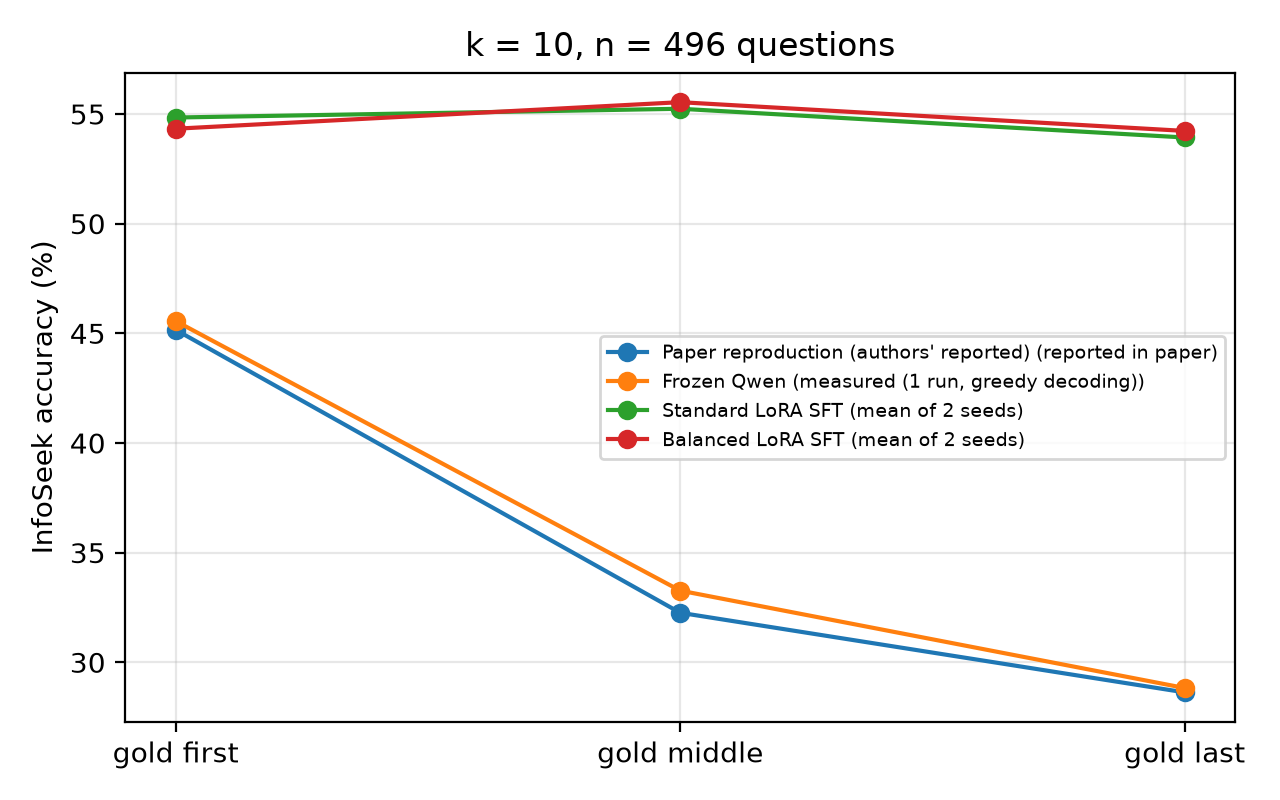
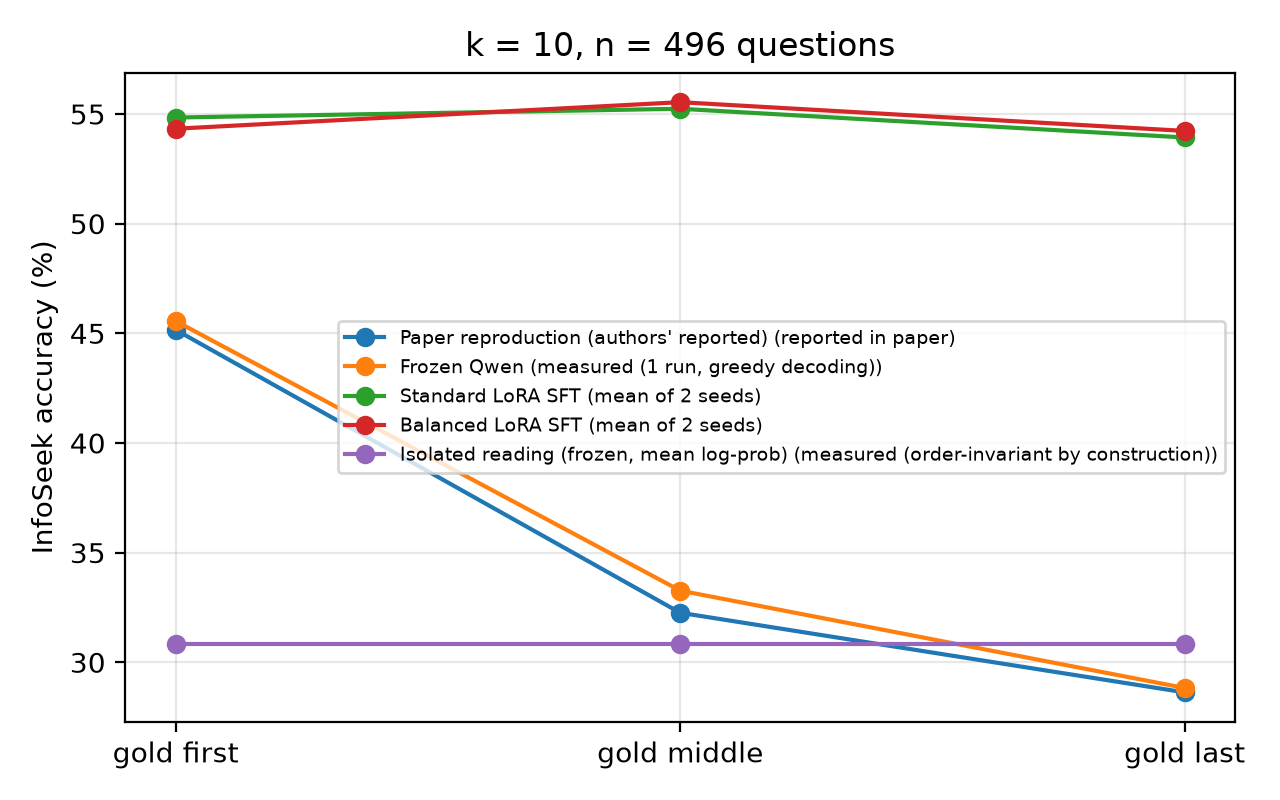
Add isolated-reading baseline to the comparison

Changed region(s): [[0.25, 0.375, 0.9688, 0.5938], [0.125, 0.7812, 0.9375, 0.8125]]

diff --git a/results/COMPARISON.md b/results/COMPARISON.md
@@ -1,4 +1,4 @@
-# Comparison (generated 2026-11-10 16:03)
+# Comparison (generated 2026-11-10 17:52)
 
 InfoSeek, authors' P17 protocol, k = 10, n = 496. Accuracy in %. Gap = gold first - gold last.
 
@@ -8,6 +8,7 @@ InfoSeek, authors' P17 protocol, k = 10, n = 496. Accuracy in %. Gap = gold firs
 | Frozen Qwen | 45.56 | 33.27 | 28.83 | 16.73 | measured (1 run, greedy decoding) |
 | Standard LoRA SFT | 54.84 | 55.24 | 53.93 | 0.91 | mean of 2 seeds |
 | Balanced LoRA SFT | 54.33 | 55.54 | 54.23 | 0.10 | mean of 2 seeds |
+| Isolated reading (frozen, mean log-prob) | 30.85 | 30.85 | 30.85 | 0.00 | measured (order-invariant by construction) |
 
 ## Paired bootstrap (B = 10,000, seed 42), percentage points
 
@@ -16,6 +17,7 @@ InfoSeek, authors' P17 protocol, k = 10, n = 496. Accuracy in %. Gap = gold firs
 | Frozen Qwen: gap (first - last) | +16.73 | [+12.90, +20.77] | yes |
 | Standard LoRA SFT: gap (first - last) | +0.91 | [-1.21, +3.02] | no |
 | Balanced LoRA SFT: gap (first - last) | +0.10 | [-1.81, +2.02] | no |
+| Isolated reading (frozen, mean log-prob): gap (first - last) | +0.00 | [+0.00, +0.00] | no |
 | Standard LoRA SFT vs Frozen: change in gap | -15.83 | [-20.16, -11.79] | yes |
 | Standard LoRA SFT vs Frozen: accuracy at gold first | +9.27 | [+4.84, +13.61] | yes |
 | Standard LoRA SFT vs Frozen: accuracy at gold middle | +21.98 | [+17.74, +26.21] | yes |
@@ -24,6 +26,16 @@ InfoSeek, authors' P17 protocol, k = 10, n = 496. Accuracy in %. Gap = gold firs
 | Balanced LoRA SFT vs Frozen: accuracy at gold first | +8.77 | [+4.33, +13.21] | yes |
 | Balanced LoRA SFT vs Frozen: accuracy at gold middle | +22.28 | [+18.15, +26.51] | yes |
 | Balanced LoRA SFT vs Frozen: accuracy at gold last | +25.40 | [+21.07, +29.74] | yes |
+| Isolated reading (frozen, mean log-prob) vs Frozen: change in gap | -16.73 | [-20.77, -12.90] | yes |
+| Isolated reading (frozen, mean log-prob) vs Frozen: accuracy at gold first | -14.72 | [-18.75, -10.89] | yes |
+| Isolated reading (frozen, mean log-prob) vs Frozen: accuracy at gold middle | -2.42 | [-6.05, +1.21] | no |
+| Isolated reading (frozen, mean log-prob) vs Frozen: accuracy at gold last | +2.02 | [-1.61, +5.65] | no |
+| Standard LoRA SFT vs Isolated reading (frozen, mean log-prob): accuracy at gold first | +23.99 | [+19.56, +28.43] | yes |
+| Standard LoRA SFT vs Isolated reading (frozen, mean log-prob): accuracy at gold middle | +24.40 | [+19.86, +28.93] | yes |
+| Standard LoRA SFT vs Isolated reading (frozen, mean log-prob): accuracy at gold last | +23.08 | [+18.65, +27.62] | yes |
+| Balanced LoRA SFT vs Isolated reading (frozen, mean log-prob): accuracy at gold first | +23.49 | [+18.95, +28.02] | yes |
+| Balanced LoRA SFT vs Isolated reading (frozen, mean log-prob): accuracy at gold middle | +24.70 | [+20.16, +29.23] | yes |
+| Balanced LoRA SFT vs Isolated reading (frozen, mean log-prob): accuracy at gold last | +23.39 | [+18.85, +27.82] | yes |
 | Balanced LoRA SFT vs Standard LoRA SFT: change in gap | -0.81 | [-3.02, +1.41] | no |
 | Balanced LoRA SFT vs Standard LoRA SFT: accuracy at gold first | -0.50 | [-2.32, +1.31] | no |
 | Balanced LoRA SFT vs Standard LoRA SFT: accuracy at gold middle | +0.30 | [-1.61, +2.22] | no |
